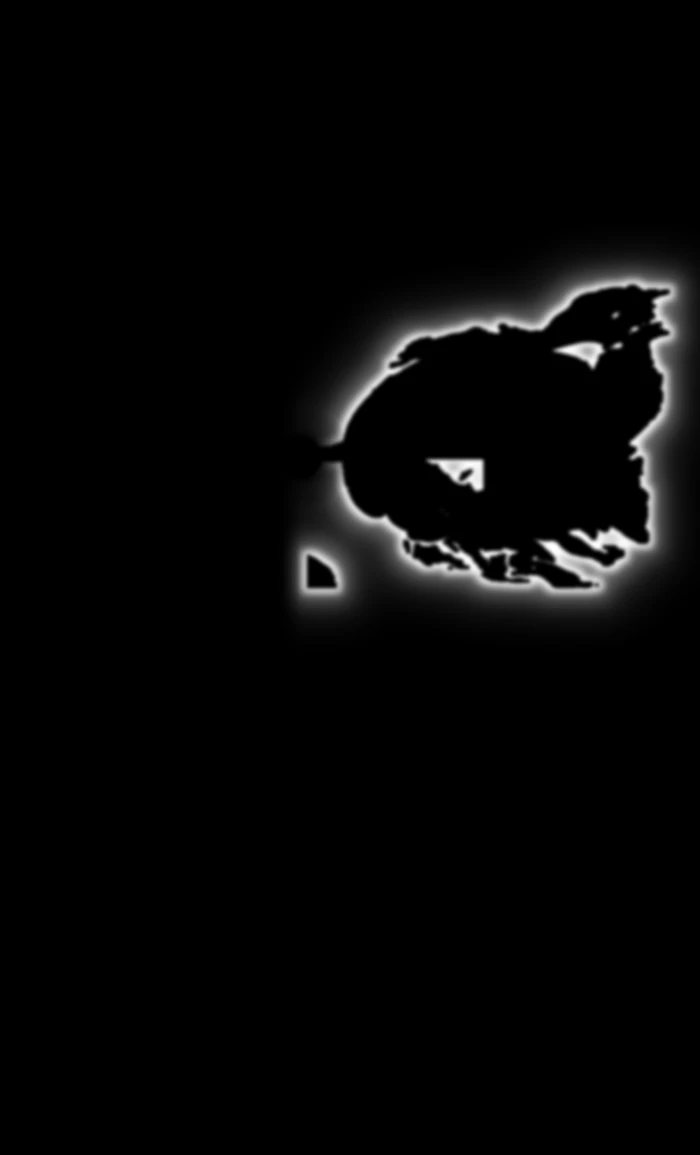
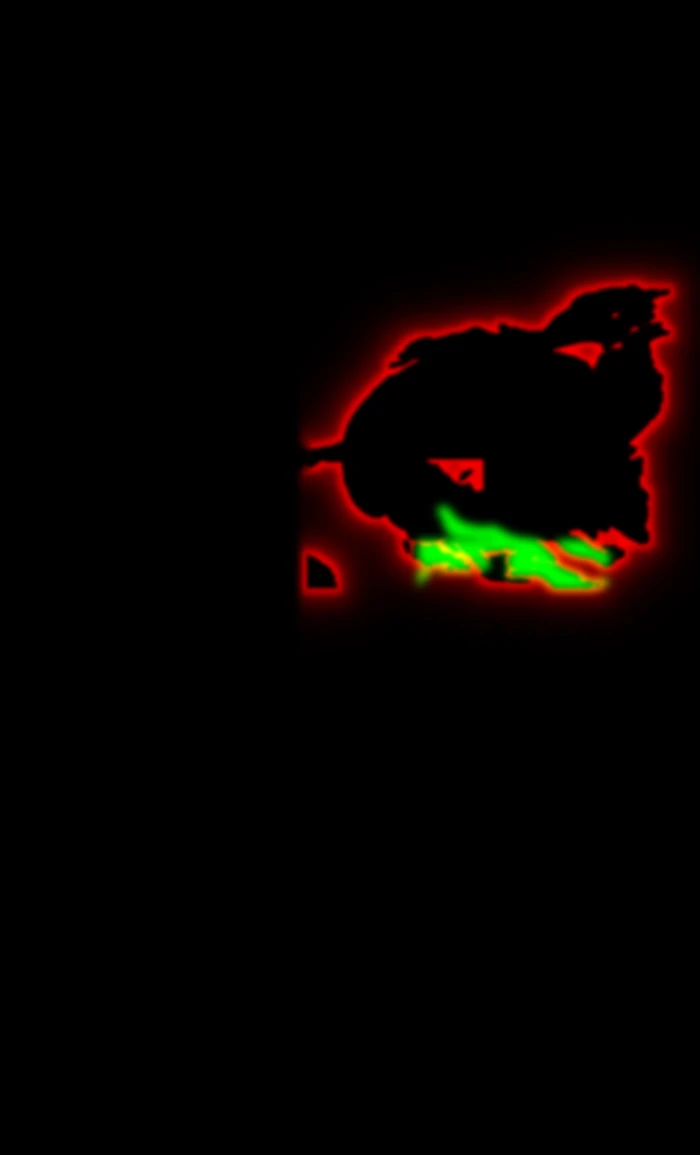
Night subtle everywhere; the sash ripples like cloth; God's hand radiates; a calm Last Supper
- Night: the faint occasional flicker now spreads across the whole storm.
- Day: the green sash and the lower angel's legs ripple like cloth in the
  wind (cloth mask in day-rift.webp G, read by the strokes); the glitch
  radiates from God's hand to the fingertip, only the gap stays calm.
- Last Supper: the glitch runs at a fifth of the speed and gently; the
  halo barely trembles.

Changed region(s): [[0.39, 0.2182, 1.0, 0.5299]]

diff --git a/public/main.js b/public/main.js
@@ -45,8 +45,8 @@ const load = src => new Promise((res, rej) => { const i = new Image(); i.onload 
 // each picture is one painting grown past Michelangelo's frame; wide and tall screens are cut from it around its focus
 const shape = innerWidth / innerHeight >= .8 ? 'wide' : 'tall';
 if (!gl) { root.classList.add('no-gl'); ready(); }
-else fetch('/img/scene.json?v=1791967953').then(r => r.json()).then(meta =>
-  Promise.all([shape === 'wide' ? 'night-wide' : 'night', shape === 'wide' ? 'night-wide-flow' : 'night-flow', shape === 'wide' ? 'day' : 'day-tall', shape === 'wide' ? 'day-flow' : 'day-tall-flow', shape === 'wide' ? 'supper' : 'supper-tall', shape === 'wide' ? 'supper-flow' : 'supper-tall-flow', shape === 'wide' ? 'day-rift' : 'day-tall-rift', shape === 'wide' ? 'supper-aura' : 'supper-tall-aura'].map(n => load(`/img/${n}.webp?v=1791967953`)))
+else fetch('/img/scene.json?v=1791969749').then(r => r.json()).then(meta =>
+  Promise.all([shape === 'wide' ? 'night-wide' : 'night', shape === 'wide' ? 'night-wide-flow' : 'night-flow', shape === 'wide' ? 'day' : 'day-tall', shape === 'wide' ? 'day-flow' : 'day-tall-flow', shape === 'wide' ? 'supper' : 'supper-tall', shape === 'wide' ? 'supper-flow' : 'supper-tall-flow', shape === 'wide' ? 'day-rift' : 'day-tall-rift', shape === 'wide' ? 'supper-aura' : 'supper-tall-aura'].map(n => load(`/img/${n}.webp?v=1791969749`)))
     .then(ims => paint(gl, ims, meta[shape])))
   .catch(e => { console.error(String(e && e.message || e)); root.classList.add('no-gl'); ready(); });   // log, then fall back
 
@@ -64,6 +64,7 @@ function paint(gl, [nightImg, nightFlow, dayImg, dayFlow, supImg, supFlow, riftI
   uniform vec2 LC;                       // the light: between the two hands
   uniform vec3 FINE[4];                  // the day's faces and hands: u, v, radius (in widths) — always the finest brush
   uniform sampler2D TN, FN, TD, FD, TL, FL;   // paintings and their flow maps
+  uniform sampler2D TG;                  // day: R = glitch around God, G = cloth that ripples
   float DET = 1.;                        // brush size here (small for faces, hands and edges)
   float h21(vec2 p){ p = fract(p * vec2(123.34, 456.21)); p += dot(p, p + 45.32); return fract(p.x * p.y); }
   float vn(vec2 p){ vec2 i = floor(p), f = fract(p); f = f*f*(3.-2.*f);
@@ -191,7 +192,11 @@ function paint(gl, [nightImg, nightFlow, dayImg, dayFlow, supImg, supFlow, riftI
     float press = mix(1.15, .5, smoothstep(-.5, .5, corner.x)) * (1. + .18*sin(corner.x*9. + rnd.y*20.));
     vec2 along = dir*corner.x*size.x, across = perp(dir)*(corner.y*size.y*press + bend*(corner.x*corner.x - .25)*size.x);
     float sweep = size.x > .06 ? mix(.3, 1., free) : 1.;   // great sweeps belong to the open sky, not across a face
-    vec2 q = p + drift*det + (along + across)*det*sweep*mix(1., .55, calm);   // Aivazovsky's soft clouds want a smaller, smoother brush
+    vec2 q = p + drift*det + (along + across)*det*sweep*mix(1., .55, calm);
+    // the sash and the angel's legs ripple like cloth in the wind (day only)
+    vec2 du0 = clamp(vec2((p.x - RD.x)/RD.z, 1. - (p.y - RD.y)/RD.w), 0., 1.);
+    float clw = textureLod(TG, du0, 0.).g * k * (1. - k2) * BOIL;
+    q += clw * vec2(sin(T*1.7 + p.y*34. + p.x*9.)*.005 + sin(T*.9 + p.x*14.)*.003, sin(T*1.3 + p.x*28. - p.y*6.)*.007);   // Aivazovsky's soft clouds want a smaller, smoother brush
     gl_Position = vec4(q.x/A*2. - 1., q.y*2. - 1., det*.9 - .45 + rnd.z*.04, 1.);   // small brushes land on top
     vUv = corner + .5; vCol = col; vSeed = rnd.w;
   }`;
@@ -232,7 +237,7 @@ function paint(gl, [nightImg, nightFlow, dayImg, dayFlow, supImg, supFlow, riftI
   // blocks of light, in bursts — the classical painting interrupted by something not of this world ----
   const FS_GL = `#version 300 es
   precision highp float;
-  in vec2 vp; uniform float MIX, MIX2, T; uniform sampler2D TG, TA; out vec4 o;
+  in vec2 vp; uniform float MIX, MIX2, T; uniform sampler2D TA; out vec4 o;
   ${SCENE}
   float hh(float n){ return fract(sin(n*127.1)*43758.5453); }
   // one torn strip of another painting: a fragment of the other two pictures shows through the tear
@@ -250,13 +255,14 @@ function paint(gl, [nightImg, nightFlow, dayImg, dayFlow, supImg, supFlow, riftI
     return useA ? texture(SA, u2).rgb : texture(SB, u2).rgb;
   }
   float GA, GT;   // how much of this pixel is torn; GT: how much is a strip of another painting
+  float TS = 1.;  // glitch clock speed (the Last Supper runs it slow)
   vec3 glitch(sampler2D Tx, sampler2D Oa, vec2 fa, sampler2D Ob, vec2 fb, vec4 R, vec2 p, float amt, float seed){
     // torn slices that slide, a rolling wave, a colour split, smears; and some slices are torn from the other paintings
-    float fr = floor(T*14. + seed), fr2 = floor(T*5. + seed);
+    float fr = floor(T*14.*TS + seed), fr2 = floor(T*5.*TS + seed);
     float band = floor(p.y*140. + hh(fr2)*30.), band2 = floor(p.y*34. + hh(fr2 + 1.)*9.), band3 = floor(p.y*7. + hh(fr2 + 4.)*5.);
     float on = step(.6 - .12*amt, hh(band2*3.1 + fr*.7 + seed));
     float slice = on * (hh(band*1.7 + fr) - .5) * .16 * amt;
-    float wave = sin(p.y*38. + T*7. + seed) * .006 * amt + sin(p.y*170. - T*23.) * .0018 * amt;
+    float wave = sin(p.y*38. + T*7.*TS + seed) * .006 * amt + sin(p.y*170. - T*23.*TS) * .0018 * amt;
     vec2 q = p + vec2(slice + wave, 0.);
     vec2 uv = clamp(vec2((q.x - R.x)/R.z, 1. - (q.y - R.y)/R.w), .001, .999);
     float ch = (.012 + .03*on*hh(band + fr*3.)) * amt / R.z;
@@ -287,7 +293,7 @@ function paint(gl, [nightImg, nightFlow, dayImg, dayFlow, supImg, supFlow, riftI
     vec3 col = vec3(0.); float a = 0.;
     // night: only a hint — a faint flicker in God's light, now and then, before heaven breaks through on the next pages
     float pulse = smoothstep(.62, .78, hh(floor(T*.9))) * (.6 + .4*hh(floor(T*7.)));
-    float mn = smoothstep(.3, .03, length(vp - GL)) * pulse;
+    float mn = (.45 + .55*smoothstep(.6, .03, length(vp - GL))) * pulse;   /* everywhere, a little more in God's light */
     if (wN*mn > .01) { vec3 c = glitch(TN, TD, FD_, TL, FL_, RN, vp, .45, 1.); float g_ = wN*mn*GA*.55; col += c*g_; a += g_; }
     // day: the rift around God
     vec2 du = clamp(vec2((vp.x - RD.x)/RD.z, 1. - (vp.y - RD.y)/RD.w), 0., 1.);
@@ -300,10 +306,12 @@ function paint(gl, [nightImg, nightFlow, dayImg, dayFlow, supImg, supFlow, riftI
     float hd = length((vp - hc)*vec2(1., 1.08));
     float halo = smoothstep(hr*.16, 0., abs(hd - hr*1.45)) * step(hc.y - hr*.55, vp.y);   /* a glitching halo ring behind his head */
     ms = max(ms, halo*.6) * (1. - cm);                   /* the glitch stays behind him */
-    if (wS*ms > .01) { vec3 c = glitch(TL, TN, FN_, TD, FD_, RL, vp, 2.2, 13.); float g_ = wS*ms*GA; col += c*g_; a += g_; }
+    TS = .18;
+    if (wS*ms > .01) { vec3 c = glitch(TL, TN, FN_, TD, FD_, RL, vp, .55, 13.); float g_ = wS*ms*GA*.6; col += c*g_; a += g_; }
+    TS = 1.;
     // the halo itself: a ring of gold light behind his head, split into colour and torn by the scan like a signal from heaven
-    float hfr = floor(T*12.), hb = floor(vp.y*160.);
-    float hj = (hh(hb + hfr) - .5) * hr * .22 * step(.55, hh(floor(vp.y*40.) + hfr*.7));
+    float hfr = floor(T*2.), hb = floor(vp.y*160.);
+    float hj = (hh(hb + hfr) - .5) * hr * .07 * step(.7, hh(floor(vp.y*40.) + hfr*.7));
     float rr = length((vp + vec2(hj, 0.) - hc - vec2(hr*.05, 0.))*vec2(1., 1.08)), rg = length((vp + vec2(hj, 0.) - hc)*vec2(1., 1.08)), rb = length((vp + vec2(hj, 0.) - hc + vec2(hr*.05, 0.))*vec2(1., 1.08));
     float w = hr*.07, R0 = hr*1.45, up = smoothstep(hc.y - hr*.7, hc.y - hr*.35, vp.y);
     vec3 ring = vec3(exp(-pow((rr - R0)/w, 2.)), exp(-pow((rg - R0)/w, 2.)), exp(-pow((rb - R0)/w, 2.))) * up;

diff --git a/public/index.html b/public/index.html
@@ -19,7 +19,7 @@
 <link rel="preconnect" href="https://fonts.googleapis.com">
 <link rel="preconnect" href="https://fonts.gstatic.com" crossorigin>
 <link rel="stylesheet" href="https://fonts.googleapis.com/css2?family=Cinzel:wght@400;500&family=Cormorant+Garamond:ital,wght@0,300;0,400;1,300;1,400&display=swap">
-<link rel="stylesheet" href="/style.css?v=1791967953">
+<link rel="stylesheet" href="/style.css?v=1791969749">
 <script>document.documentElement.classList.add('js')</script>
 </head>
 <body>
@@ -85,6 +85,6 @@
 
 
 <noscript><style>.reveal,.reveal-words,.display .line>span{opacity:1!important;transform:none!important}</style></noscript>
-<script type="module" src="/main.js?v=1791967953"></script>
+<script type="module" src="/main.js?v=1791969749"></script>
 </body>
 </html>
